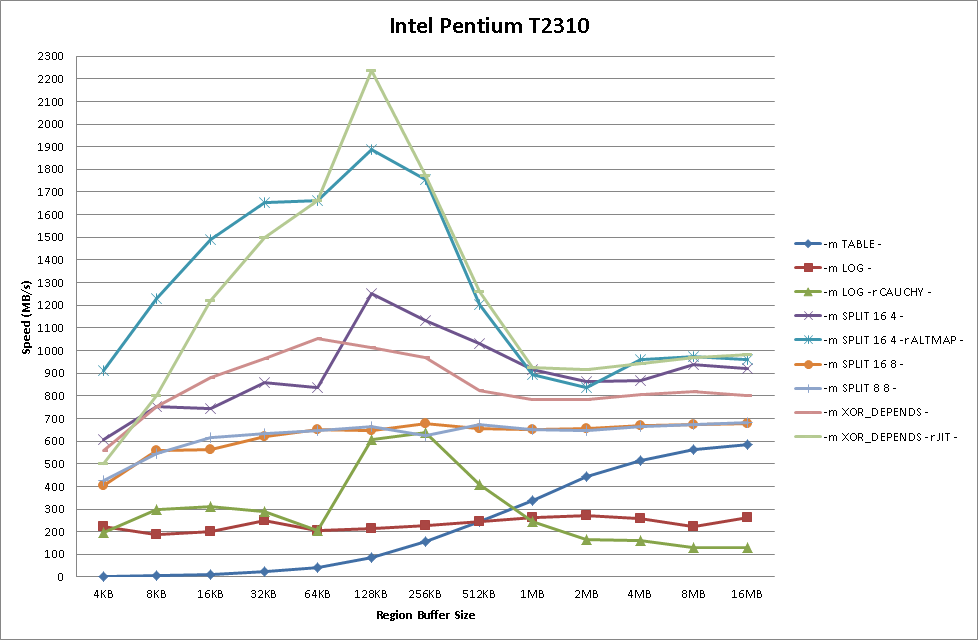
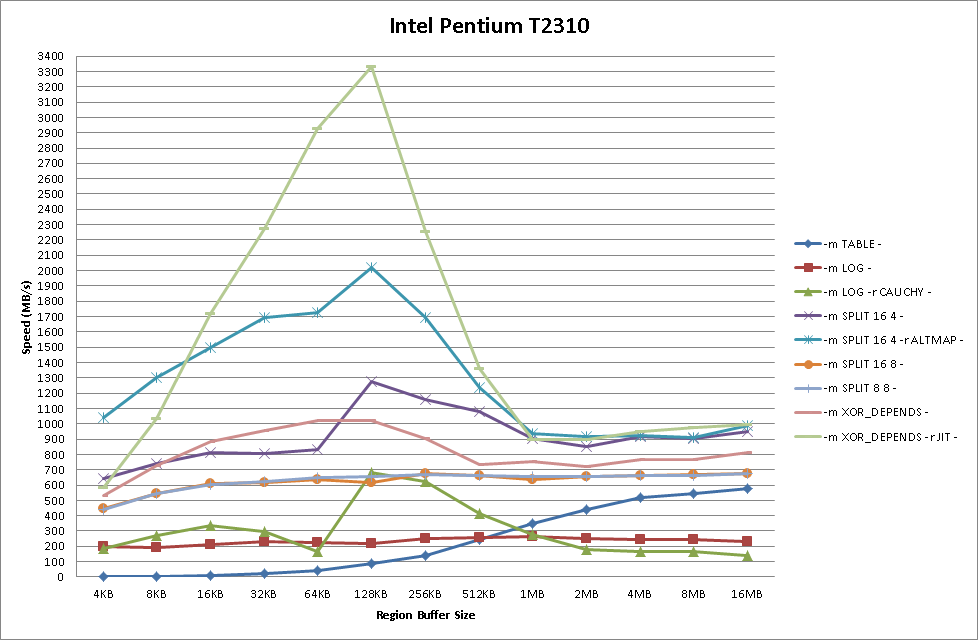
Update GF-Complete patch for XOR_DEPENDS + benchmarks + info - faster log multiply for SPLIT(16,4) and XOR_DEPENDS - use XMM registers to cache input

Changed region(s): [[0.0307, 0.0938, 0.7975, 0.9062], [0.0307, 0.0938, 0.0613, 0.1562], [0.0307, 0.8438, 0.0613, 0.875]]

diff --git a/xor_depends/info.md b/xor_depends/info.md
@@ -7,6 +7,13 @@ named “XOR\_DEPENDS”, suitable for CPUs with SSE2 support but not SSSE3, suc
 the AMD K10. The technique is also a viable alternative for SSSE3 CPUs with a
 slow `pshufb` instruction (i.e. Intel Atom).
 
+**Update:** Yutaka Sawada has pointed out that faster implementations of
+SPLIT\_TABLE(16,8)
+[exist](<https://github.com/pcordes/par2-asm-experiments/blob/master/asm-pinsrw.s>)
+(some of which may use some SIMD, though the core lookup operations of the
+algorithm don’t). As these implementations aren’t a part of GF-Complete, I’ll
+pretend they don’t exist on this page.
+
  
 
 Theory
@@ -140,7 +147,7 @@ different routines, assuming we only need to the consider the default
 polynomial, the code size would be rather large, so I have not bothered
 exploring this option.
 
-<a name="avx"></a>AVX
+AVX
 ---
 
 We use 128 bit operations only because it’s the optimal size for SSE
@@ -150,13 +157,16 @@ below 128 bit) and only needs load, store and XOR operations to function.
 
 Using 256 bit AVX operations may improve performance over 128 bit SSE
 operations. Also, the 3 operand XOR operations could be useful for eliminating
-MOV instructions if optimal sequences (above) are to be used (ignoring
-architectures that transparently perform register-register move elimination).
+MOV instructions if optimal sequences (above) are to be used. AVX512’s 32
+registers may also give a very minor boost by allowing all 16 inputs to be
+cached, and provide ample temporary storage to handle the case when the source
+and destination buffers are the same.
 
 The downside is that 256 bit operations would require processing to be performed
-on rather large 512 byte blocks. Also, it’s only really useful for CPUs with AVX
-but no AVX2 support (Intel Sandy/Ivy Bridge; unsure about the benefit for AMD
-Bulldozer based CPUs).
+on rather large 512 byte blocks. Various parts of the current implementation
+would need to be rewritten for AVX to implement 3 operand support (including the
+JIT routines). I’m also unsure about the benefit for AMD Bulldozer based CPUs,
+especially when using multiple threads.
 
 I haven’t yet explored using an AVX implementation.
 
@@ -208,6 +218,15 @@ Drawbacks
     time), so an implementation which doesn't require alternative mappings (i.e.
     does the re-arrange automatically per block) is unlikely to be practical.
 
+-   Some of the speed is reliant on availability of XMM registers. Basically
+    this means that performance on 32-bit won’t be good as 64-bit due to less
+    registers being available.
+
+-   The general algorithm is just very complicated. I really like the
+    SPLIT(16,4) algorithm for its aesthetic simplicity and efficiency.
+
+ 
+
 Usage in ParPar
 ===============
 
@@ -222,6 +241,10 @@ back to XOR\_DEPENDS with alternative mapping, if SSE2 is available (or CPU is
 Intel Atom). If a memory region with read, write and execute permissions can be
 mapped, the JIT version is used, otherwise the static code version is used,
 which is faster than or as fast as SPLIT\_TABLE(16,8).
+
+As the current implementation of XOR\_DEPENDS seems to be faster than
+SPLIT\_TABLE(16,4) in a number of cases, I may decide to favour it in ParPar
+more.
 
  
 
@@ -239,17 +262,23 @@ penalised](<http://jerasure.org/jerasure/gf-complete/issues/7>) as GF-Complete
 appears to be designed for amd64 platforms (and it [doesn’t build without
 changes](<http://lab.jerasure.org/jerasure/gf-complete/issues/6>)).
 
-Note that ALTMAP is implied for XOR\_DEPENDS since the data is arranged
-differently. ALTMAP implementations require conversion to/from the normal
-layout, the overhead of which is not shown in these benchmarks (for PAR2
-purposes, the overhead is likely negligible if large number of recovery slices
-are being generated).
+Notes:
 
-Note that the benchmark uses different memory locations for source and
-destination, and hence, does not incur the XOR\_DEPENDS speed penalty where
-source == destination.
+-   ALTMAP is implied for XOR\_DEPENDS since the data is arranged differently.
+    ALTMAP implementations require conversion to/from the normal layout, the
+    overhead of which is not shown in these benchmarks (for PAR2 purposes, the
+    overhead is likely negligible if large number of recovery slices are being
+    generated).
 
- 
+-   the benchmark uses different memory locations for source and destination,
+    and hence, does not incur the XOR\_DEPENDS speed penalty where source ==
+    destination.
+
+-   XOR\_DEPENDS (JIT) does not perform as well on 32 bit builds as it does
+    here, due to fewer XMM registers being available for caching
+
+-   the LUT generation speed of SPLIT\_TABLE(16,4) implementations have been
+    slightly improved by removing some duplicate log table lookups
 
 Intel Core 2 (65nm)
 -------------------
@@ -266,7 +295,7 @@ Intel Core 2 (65nm)
 
 **Comment**: The Conroe CPU has a [relatively
 slow](<http://forum.doom9.org/showthread.php?p=1668136#post1668136>) `pshufb`
-instruction, hence XOR\_DEPENDS is actually comparable to SPLIT\_TABLE(16,4)  
+instruction, hence XOR\_DEPENDS usually comes out on top  
 
  
 
@@ -275,7 +304,7 @@ Intel Silvermont
 
 -   CPU: Intel Atom C2750 @2.4GHz
 
-    -   24KB L1 cache, 4MB shared L2 cache, SSE2, SSSE3 and CLMUL supported
+    -   24KB L1 cache, 4MB shared L2 cache, SSE2 and SSSE3 supported
 
 -   RAM: 8GB DDR3 1600MHz dual channel
 
@@ -309,18 +338,23 @@ although the non-JIT version is about the same.
 
  
 
-AMD Bulldozer
--------------
+Intel Sandy Bridge
+------------------
 
-I wanted to test this on a CPU with a fast shuffle unit, but don't have one
-properly set up. The following test was done on a virtual server, so results may
-be less accurate, but should at least provide some idea of performance. Compiler
-is GCC 4.9.2
+-   CPU: Intel Core i5 2400 @3.1GHz
 
-![](<Opteron4280.png>)
+    -   32KB L1 cache, 256KB L2 cache, 6MB shared L3 cache, SSE2, SSSE3 and AVX
+        supported
 
-**Comment**: As expected, SPLIT\_TABLE(16,4) easily beats everything else
-although XOR\_DEPENDS performs surprisingly well.
+-   RAM: 4GB DDR3 1333MHz dual channel
+
+-   Compiler: GCC 4.8.2
+
+![](<CoreI2400.png>)
+
+**Comment**: XOR\_DEPENDS can actually beat SPLIT\_TABLE(16,4) here, despite
+Sandy Bridge having a fast shuffle unit. At smaller buffer sizes, the high
+overhead of JIT rears its head though.
 
  
 
@@ -348,3 +382,7 @@ Other things I included because I found useful, but you mightn’t:
 -   intentionally breaking code for w=32,64,128 to enable compilation on i386
     platforms (basically instances of `_mm_insert_epi64` and `_mm_extract_epi64`
     have been deleted with no appropriate replacement)
+
+-   slightly improved speed of LUT generation for SPLIT\_TABLE(16,4) SSSE3
+    versions by removing duplicate log table lookups
+
